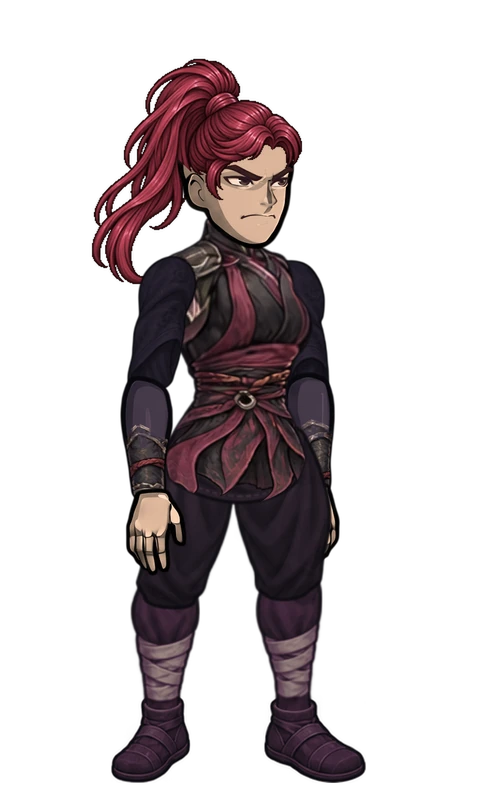
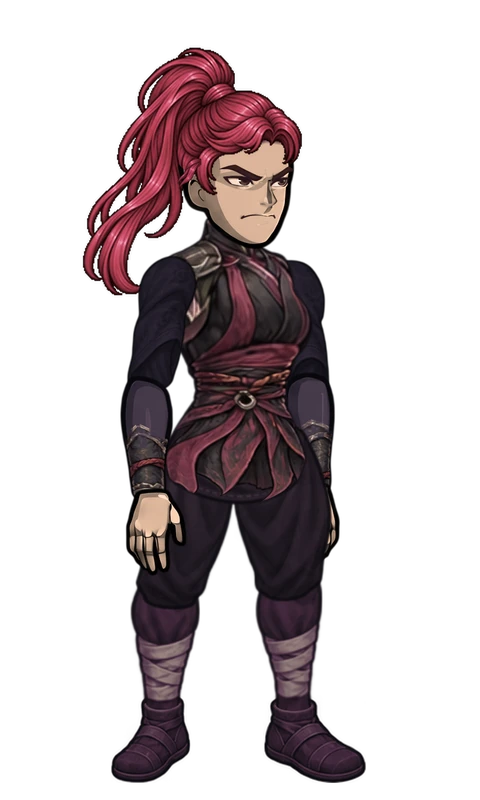
Ajusta peinados de Kureha y Riku
- Actualiza el arte y los ajustes de ensamblado de Kureha y Riku.

- Añade fuentes de pelo, hojas y mechón lateral para los retratos.

- Retira Kureha y Yuna de la lista de peinados pendientes.

Changed region(s): [[0.1562, 0.0625, 0.625, 0.375]]

diff --git a/scripts/pack-npc-puppets.py b/scripts/pack-npc-puppets.py
@@ -22,7 +22,7 @@ CUSTOM_HAIR = {
     "goro": "goro-hair-v8.png", "ren": "ren-hair-v7.png",
     "mei": "mei-hair-v3.png", "sayo": "sayo-hair-v2.png",
     "hana": "hana-hair-v3.png", "yuna": "yuna-hair-v2.png",
-    "kureha": "kureha-hair-v5.png"
+    "kureha": "kureha-hair-v7.png", "riku": "riku-hair-v2.png"
 }
 DAICHI_FACIAL_HAIR_AT = (231, 152)
 DAICHI_CHIN_BEARD_AT = (246, 181)
@@ -31,11 +31,12 @@ HAIR_SCALE = 1.10
 HAIR_SHIFT_LEFT = .10
 EXTRA_HAIR_SCALE = 1.20
 EXTRA_HAIR_Y_SCALE = 1.10
-EXTRA_HAIR_Y_PX = {"yuna": 40, "goro": 18, "ren": 20, "daichi": 10, "mei": 20, "sayo": 20, "hana": 20, "kureha": 25}
-EXTRA_HAIR_X_PX = {"goro": 10, "ren": 13, "mei": 5}
-HAIR_WIDTH_ADJUST = {"goro": .80, "kureha": 1.21275}
-HAIR_HEIGHT_ADJUST = {"goro": .80, "ren": 1.20, "mei": 1.10, "kureha": 1.21275}
+EXTRA_HAIR_Y_PX = {"yuna": 40, "goro": 18, "ren": 20, "daichi": 10, "mei": 20, "sayo": 20, "hana": 20, "kureha": 25, "riku": 20}
+EXTRA_HAIR_X_PX = {"goro": 10, "ren": 13, "mei": 5, "kureha": -5}
+HAIR_WIDTH_ADJUST = {"goro": .80, "kureha": 1.334025}
+HAIR_HEIGHT_ADJUST = {"goro": .80, "ren": 1.20, "mei": 1.10, "kureha": 1.334025}
 EXTRA_HAIR_HEIGHT_PX = {"goro": 10}
+KUREHA_SIDE_LOCK_BOX = (208, 186, 41, 56)  # Hair-local coordinates at 467 x 420.
 # Source and destination rows of each sash in its individual costume.
 # The higher obi and the narrower belts fit between chest and hips differently.
 WAISTS = {
@@ -435,7 +436,7 @@ def assemble(sheet, row, profile, rigs, palettes, beards, sleeve_fabric):
     head_art = Image.open(body_path / "cabeza.png").convert("RGBA")
     # These hairstyles already frame their faces; a dark scalp underlay
     # adds an artificial shadow at the hairline.
-    if id not in ("mei", "sayo", "hana"):
+    if id not in ("mei", "sayo", "hana", "riku"):
         draw(image, fitted_scalp(head_art, id), head_center, head_size)
     face = Image.open(MODULAR / "faces" / f"male_{expression}_{tone}.png").convert("RGBA")
     draw(image, face, head_center, head_size)
@@ -470,6 +471,14 @@ def assemble(sheet, row, profile, rigs, palettes, beards, sleeve_fabric):
         side_hair.putalpha(ImageChops.multiply(side_hair.getchannel("A"), side_mask))
         image.alpha_composite(side_hair, (hair_at[0], hair_at[1] + 10))
     image.alpha_composite(front_hair, hair_at)
+    if id == "kureha":
+        # A short lock grows from the crown into the gap above her ear; the
+        # ponytail remains entirely on its separate rear layer.
+        side_lock = Image.open(OUTPUT / "source" / "kureha-side-lock-v1.png").convert("RGBA")
+        lx, ly, lw, lh = KUREHA_SIDE_LOCK_BOX
+        lock_at = (hair_at[0] + round(lx * w / 467), hair_at[1] + round(ly * h / 420))
+        lock_size = (round(lw * w / 467), round(lh * h / 420))
+        image.alpha_composite(side_lock.resize(lock_size, Image.Resampling.LANCZOS), lock_at)
     if id in ("goro", "ren", "yuna"):
         # Follow the ear silhouette so its complete black outline stays
         # above the side hair without restoring a broad scalp-colored strip.

diff --git a/PEINADOS_NPC_ARREGLAR.md b/PEINADOS_NPC_ARREGLAR.md
@@ -1,6 +1,4 @@
 # Peinados de NPC pendientes de arreglar
-- Yuna
-- Kureha
 - Riku
 - Nao
 - Iori
